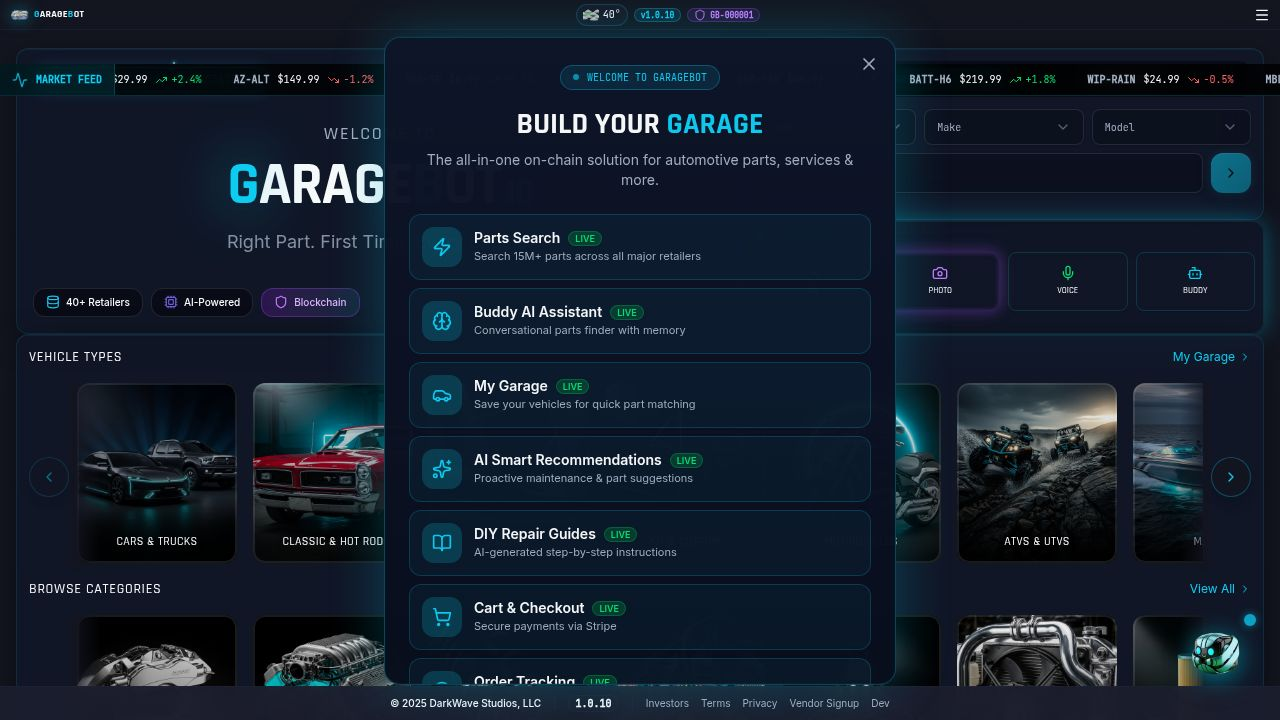
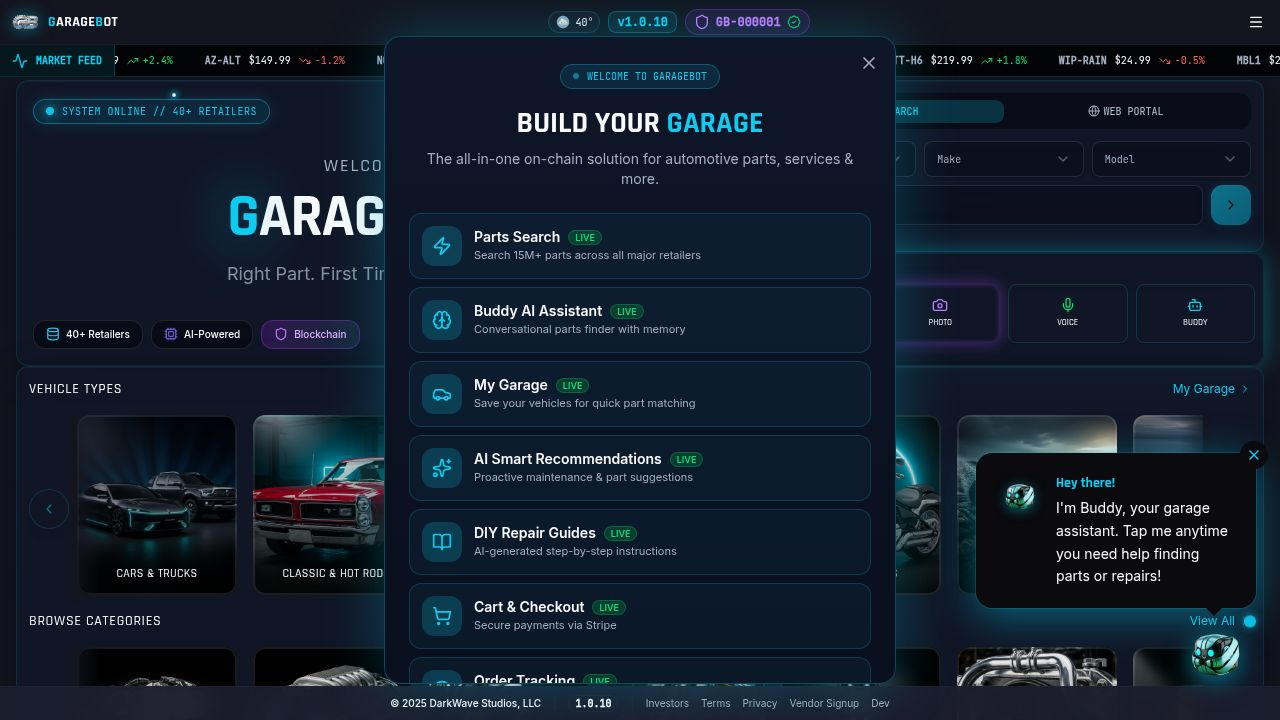
Adjust page padding to accommodate header and ticker updates
Update padding on multiple pages (Garage.tsx, DIYGuides.tsx, Results.tsx, Pro.tsx, InviteFriends.tsx) and increment service worker cache version from v9 to v10.

Replit-Commit-Author: Agent
Replit-Commit-Session-Id: f1166ccb-9333-4ee3-b37c-47b90f1a2bfe
Replit-Commit-Checkpoint-Type: full_checkpoint
Replit-Commit-Event-Id: 18910c9b-5d2b-4448-ad09-c5b9475a8070
Replit-Commit-Screenshot-Url: https://storage.googleapis.com/screenshot-production-us-central1/61f82902-728d-4d48-9085-7700c909b4d3/f1166ccb-9333-4ee3-b37c-47b90f1a2bfe/qxjvNXx

diff --git a/client/src/pages/InviteFriends.tsx b/client/src/pages/InviteFriends.tsx
@@ -160,7 +160,7 @@ export default function InviteFriends() {
     return (
       <div className="min-h-screen bg-background">
         <Nav />
-        <div className="pt-20 flex items-center justify-center min-h-[60vh]">
+        <div className="pt-[85px] flex items-center justify-center min-h-[60vh]">
           <div className="animate-spin w-8 h-8 border-2 border-primary border-t-transparent rounded-full" />
         </div>
       </div>
@@ -171,7 +171,7 @@ export default function InviteFriends() {
     <div className="min-h-screen bg-background text-foreground font-sans">
       <Nav />
       
-      <main className="pt-20 pb-12 px-4">
+      <main className="pt-[85px] pb-12 px-4">
         <div className="max-w-6xl mx-auto">
           <motion.div
             initial={{ opacity: 0, y: 20 }}

diff --git a/client/src/pages/Garage.tsx b/client/src/pages/Garage.tsx
@@ -246,7 +246,7 @@ export default function Garage() {
   return (
     <div className="min-h-screen bg-background text-foreground font-sans">
       <Nav />
-      <div className="w-full px-2 pt-20 lg:pt-16 pb-16">
+      <div className="w-full px-2 pt-[85px] lg:pt-[80px] pb-16">
         <div className="flex overflow-x-auto md:grid md:grid-cols-12 gap-0 mb-0 scrollbar-hide">
           <div className="md:col-span-8 min-w-[85vw] md:min-w-0 flex-shrink-0">
             <Card className="bento-glass border-primary/20 p-3 h-full">

diff --git a/client/src/pages/Results.tsx b/client/src/pages/Results.tsx
@@ -321,7 +321,7 @@ export default function Results() {
     <div className="min-h-screen bg-background text-foreground font-sans">
       <Nav />
       
-      <div className="pt-20 lg:pt-16 min-h-[calc(100vh-5rem)] w-full px-2 pb-16">
+      <div className="pt-[85px] lg:pt-[80px] min-h-[calc(100vh-5rem)] w-full px-2 pb-16">
         <div className="grid grid-cols-12 gap-0">
           
           {/* Left Column: Filters (Compact Sidebar) */}

diff --git a/client/src/pages/DIYGuides.tsx b/client/src/pages/DIYGuides.tsx
@@ -135,7 +135,7 @@ export default function DIYGuides() {
     <div className="min-h-screen bg-background text-foreground">
       <Nav />
       
-      <div className="w-full px-2 pt-20 lg:pt-16 pb-16">
+      <div className="w-full px-2 pt-[85px] lg:pt-[80px] pb-16">
         <motion.div
           initial={{ opacity: 0, y: 20 }}
           animate={{ opacity: 1, y: 0 }}

diff --git a/client/src/pages/Pro.tsx b/client/src/pages/Pro.tsx
@@ -13,7 +13,7 @@ export default function Pro() {
       
       <Nav />
       
-      <div className="pt-20 lg:pt-16 pb-16 w-full px-2">
+      <div className="pt-[85px] lg:pt-[80px] pb-16 w-full px-2">
         <ProSubscription />
       </div>
       

diff --git a/client/public/sw.js b/client/public/sw.js
@@ -1,4 +1,4 @@
-const CACHE_NAME = 'garagebot-v9';
+const CACHE_NAME = 'garagebot-v10';
 const OFFLINE_URL = '/offline.html';
 
 const STATIC_ASSETS = [
